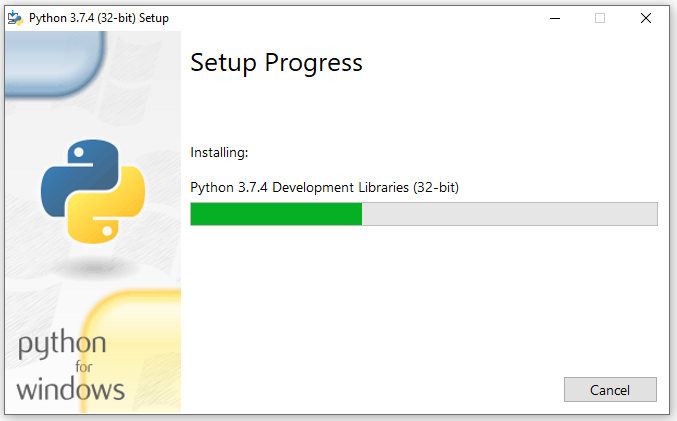
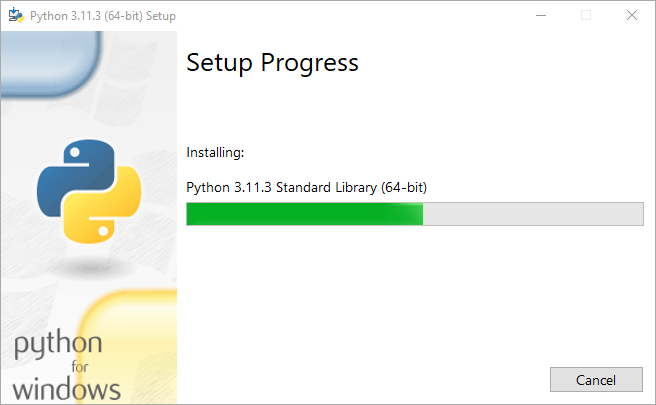
Atualização de documentação (#286)
* Atualização página de instalação python Linux

* Atualização imagens instalação python Windows

* remoção de imagens não usadas

* Update content/pages/instalacao-linux.md

---------

Changed region(s): [[0.0, 0.0, 1.0, 1.0], [0.2744, 0.1185, 0.5488, 0.2074]]

diff --git a/content/pages/instalacao-windows.md b/content/pages/instalacao-windows.md
@@ -2,51 +2,47 @@ Title: Instalando o Python 3 no Windows
 Slug: instalacao-windows
 Template: page
 
-Para instalar o Python no seu sistema operacional Windows, você precisa baixar o instalador. Acesse o site oficial [neste link](https://www.python.org/downloads/) e clique em download, como mostrado abaixo. 
+Para instalar o Python no seu sistema operacional Windows, você precisa baixar o instalador. Acesse o site oficial [neste link](https://www.python.org/downloads/) e clique em download, como mostrado abaixo.
 
-![passos]({filename}/images/instalacao-windows/01.png)
+![passos](./../images/instalacao-windows/01.png)
 
-Isso fará o download do Python 3 para sitemas de 32 bits. Para o instalador de 64 bits, acesse [](https://www.python.org/downloads/windows/) e selecione o instalador de 64 bits apropriado, como mostrado abaixo.
+Isso fará o download do Python 3 para sitemas 64 bits. Para o instalador de 32 bits, acesse [](https://www.python.org/downloads/windows/) e selecione o instalador de 32 bits apropriado, como mostrado abaixo.
 
-![passos]({filename}/images/instalacao-windows/02.png)
+![passos](./../images/instalacao-windows/02.png)
 
 Faça o download do instalador executável do Windows (32 ou 64 bits) e clique duas vezes nele para iniciar o assistente de instalação do python, como mostrado abaixo.
 
-![passos]({filename}/images/instalacao-windows/03.png)
+![passos](./../images/instalacao-windows/03.png)
 
 O processo de instalação é bem simples.  
+
 1. Marque a opção "Add Python to PATH"  
 2. Clique em "Install Now"
 
 A tela abaixo será mostrada. Aguarde enquanto o instalador completa o processo de instalação.
 
-![passos]({filename}/images/instalacao-windows/04.png)
+![passos](./../images/instalacao-windows/04.png)
 
 Se tudo ocorrer bem, a próxima tela será mostrada. Clique em "Close".
 
-![passos]({filename}/images/instalacao-windows/05.png)
+![passos](./../images/instalacao-windows/05.png)
 
 Para verificar se a instalação do Python foi bem-sucedida, pesquise no menu iniciar por "cmd" e clique duas vezes para abri-lo.
 
-![passos]({filename}/images/instalacao-windows/06.png)
+![passos](./../images/instalacao-windows/06.png)
 
 Digite o seguinte comando:
+    $ python --version
+    Python 3.11.3
 
-````python --version````
+Este comando retornará a versão do python que está instalada em sua máquina. Agora digite:
 
-Este comando retornará a versão do python que está instalada em sua máquina.
-
-![passos]({filename}/images/instalacao-windows/07.png)
-
-Agora digite:
-
-```pip --version```
+    $ pip --version
+    pip 22.3.1 from C:\Users\...\AppData\Local\Programs\Python\Python311\Lib\site-packages\pip (python 3.11)
 
 Esse comando retornará a versão do pip que está instalada em sua máquina. O pip é o gerenciador de pacote do Python. Com ele você poderá adicionar novas funcionalidades ao seu Python.
 
-![passos]({filename}/images/instalacao-windows/08.png)
-
-## Idle
+## IDLE
 
 O IDLE (Ambiente de Desenvolvimento e Aprendizagem Integrado) é um ambiente de desenvolvimento integrado (IDE) para Python. O instalador do Python para Windows contém o módulo IDLE por padrão.
 
@@ -54,12 +50,12 @@ O IDLE pode ser usado para executar uma única instrução, como o Python Shell,
 
 Para iniciar o shell interativo IDLE, procure o ícone IDLE no menu Iniciar e clique duas vezes nele.
 
-![passos]({filename}/images/instalacao-windows/09.png)
+![passos](./../images/instalacao-windows/09.png)
 
 Isso abrirá o IDLE, onde você pode escrever o código Python e executá-lo como mostrado abaixo.
 
-![passos]({filename}/images/instalacao-windows/11.gif)
+![passos](./../images/instalacao-windows/11.gif)
 
-Parabéns, agora o Python, o pip e o Idle já estão instalados em seu sistema Windows. 
+Parabéns, agora o Python, o pip e o Idle já estão instalados em seu sistema Windows.
 
 Happy Hacking! ^-^

diff --git a/content/pages/instalacao-linux.md b/content/pages/instalacao-linux.md
@@ -2,39 +2,63 @@ Title: Instalando o Python no Linux
 Slug: instalacao-linux
 Template: page
 
-Verifique se já tem o Python instalado, se você usa GNU/Linux, provavelmente já possui alguma versão do Python instalada por padrão. Para conferir, digite em um terminal:
-
-    $ which python
-
-ou
+Os sistemas GNU/Linux mais recentes ja possuem uma versão do Python instalada junto com o sistema operacional. Podemos checar com o seguinte comando:
 
     $ which python3
+    /usr/bin/python3
 
-que deve retornar algo como `/usr/bin/python`. Isso significa que o Python está instalado nesse endereço.
+que nos mostra onde o Python padrão do sistema operacional está instalado.
 
-Caso contrário, se retornar algo como `which: no python in (/usr/local/sbin:/usr/local/bin:/usr/bin:/usr...)` você precisa instalar pelos repositórios ou gerenciador de pacotes de sua distribuição.
+A versão do Python na distribuição Linux Ubuntu 22.04.2 LTS é a 3.10.
 
-## Instalação por Gerenciadores de Pacotes
+    $ python3 --version
+    Python 3.10.6
 
-Os gerenciadores de pacotes mais comuns são apt-get (Debian, Ubuntu) e yum
+Para evitar conflitos com o Python do sistema operacional, sugere-se a instalação de um outro interpretador, que pode ser feita de 2 formas diferentes: através do  de gerenciador de pacotes ou de repositórios.
+
+## Instalação por gerenciadores de pacotes
+
+Os gerenciadores de pacotes mais comuns são `apt-get` (Debian, Ubuntu) e `yum`
 (RedHat, CentOS). Caso sua distribuição utilize um gerenciador de pacotes diferente, acesse a [página de downloads do Python](https://www.python.org/downloads/).
 
-### Apt-get
+### Debian e Ubuntu
 
-Para instalar o Python 3, digite em um terminal:
+Através do gerenciador de pacotes, é possível instalar versões específicas do Python.
+No exemplo abaixo, é instalada a versão, por exemplo, 3.9 do Python
 
-    $ sudo apt-get install python3
+    sudo apt-get install python3.9
 
-(Opcional) Para instalar o gerenciador de pacotes pip, digite em um terminal:
+É possível instalar qualquer outra versão: `python3.8`, `python3.9`, `python.10`
 
-    $ sudo apt-get install python3-pip
+Desta forma, a instalação desta versão específica do Python acima difere da versão padrão do sistema operacional.
 
-### Yum
+    $ which python3.9
+    /usr/bin/python3.9
 
-Para instalar o Python 3, digite em um terminal:
+    $ which python3
+    /usr/bin/python3
 
-    $ sudo yum install python3
+### RedHat e CentOS
 
-(Opcional) Para instalar o gerenciador de pacotes pip, digite em um terminal:
+Assim como no tópico anterior, é possível instalar versões específicas do Python.
+No comando abaixo, é instalada a versão, por exemplo, 3.9 do Python.
 
-    $ yum -y install python3-pip
+    sudo yum install python3.9
+
+## Instalação por repositório
+
+Os repositórios no GNU/Linux são chamados de PPAs (do inglês Personal Package Archives).
+
+Para adicionar repositórios ao nosso sistema, precisamos de um software chamado `software-properties-common`, que pode ser instalado com o comando abaixo:
+
+    sudo apt-get install software-properties-common
+
+Habilitada a adição de repositórios ao nosso sitema operacional, podemos agora incluir o repositório que contém o Python. Este repositório é chamado de deadsnakes, cuja página oficial pode ser encontrada neste [link](https://launchpad.net/~deadsnakes/+archive/ubuntu/ppa).
+
+    sudo add-apt-repository ppa:deadsnakes/ppa
+
+Agora a instalação do Python pode ser feita a partir deste repositório com o comando
+
+    sudo apt-get install python3.9
+
+Da mesma forma, é possível instalar várias versões. Observem que a versão python correspondente à do sistema operacional padrão não está disponível no repositório deadsnakes.
